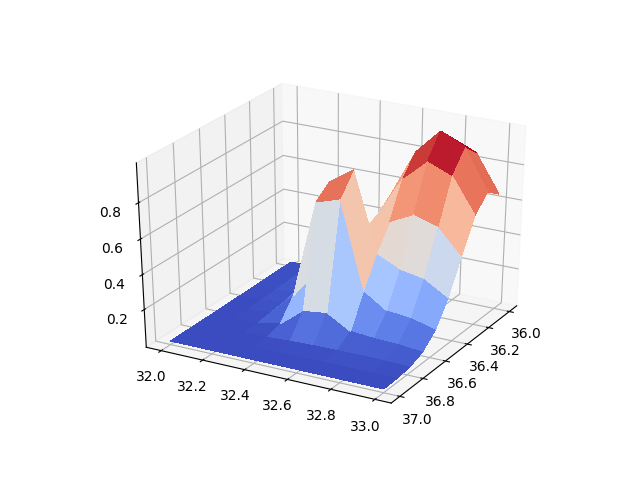
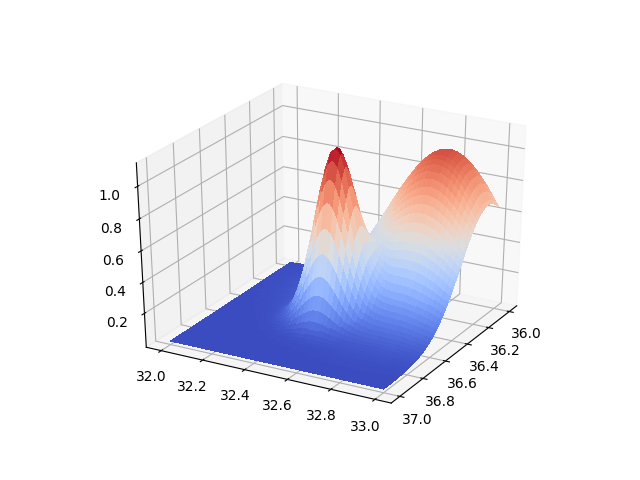
-

diff --git a/stat/stat_rbf/dairesel_baz_fonksiyonlari__radial_basis_functions_rbf__yukseklik_verisi_daglar.html b/stat/stat_rbf/dairesel_baz_fonksiyonlari__radial_basis_functions_rbf__yukseklik_verisi_daglar.html
@@ -314,8 +314,7 @@ def func(x, y):
     g2 = np.exp( -2 *np.log(2) * ((x-x2)**2+(y-y2)**2) / s2**2)    
     return g1 + g2 
 
-D = 10
-gamma = 2.0
+D = 100
 
 x = np.linspace(36,37,D)
 y = np.linspace(32,33,D)
@@ -326,45 +325,52 @@ zz = func(xx,yy)
 
 <p>Ve grafiklemeyi yapıyoruz,</p>
 <pre><code class="python">from scipy.interpolate import Rbf
-rbfi = Rbf(xx,yy,zz,function='gaussian')
-znew = rbfi(xx,yy)
 
 xx = xx.reshape(D,D)
 yy = yy.reshape(D,D)
-znew = znew.reshape(D,D)
+zz = func(xx,yy)
 
 fig = plt.figure()
 ax = fig.gca(projection='3d')
 ax.view_init(elev=29, azim=29)
-surf = ax.plot_surface(xx, yy, znew, cmap=cm.coolwarm,linewidth=0, antialiased=False)
+surf = ax.plot_surface(xx, yy, zz, cmap=cm.coolwarm,linewidth=0, antialiased=False)
 plt.savefig('linear_app88rbf_03.png')
 </code></pre>
 
-<p><img alt="" src="linear_app88rbf_03.png" /></p>
+<p>Şimdi örneklem alıp RBF yaratalım,</p>
+<pre><code class="python">S = 50
+np.random.seed(0)
+idx = np.random.choice(range(D*D),S)
+xr = xx.reshape(D*D)[idx].reshape(S,1)
+yr = yy.reshape(D*D)[idx].reshape(S,1)
+zr = zz.reshape(D*D)[idx].reshape(S,1)
+
+rbfi = Rbf(xr,yr,zr,function='gaussian',epsilon=0.15)
+</code></pre>
+
 <p>Modelleme Gaussian RBF'ler üzerinden yapıldı, bu formül neye benziyor?
 Dokümantasyona bakınca </p>
 <p><code>'gaussian': exp(-(r/self.epsilon)**2)</code></p>
 <p>ifadesini görüyoruz, burada <code>r</code> yeni nokta ile bir RBF baz fonksiyonu
 arasındaki mesafe. Bir test noktası ile üstteki RBF'leri (D*D tane)
 arasındaki mesafe şöyle hesaplanabilir,</p>
-<pre><code class="python">import autograd.numpy as anp
-def dist_matrix(X, Y):
-    sx = anp.sum(X**2, 1)
-    sy = anp.sum(Y**2, 1)
+<pre><code class="python">def dist_matrix(X, Y):
+    sx = np.sum(X**2, 1)
+    sy = np.sum(Y**2, 1)
     D2 =  sx[:, np.newaxis] - 2.0*X.dot(Y.T) + sy[np.newaxis, :] 
     D2[D2 &lt; 0] = 0
-    D = anp.sqrt(D2)
+    D = np.sqrt(D2)
     return D
 
-test_1 = anp.array([[36.0,32.0]])
+test_1 = np.array([[36.0,32.0]])
 test_1_dist = dist_matrix(test_1, rbfi.xi.T)
 print (test_1_dist.shape)
 print (test_1_dist[0][:10])
 </code></pre>
 
-<pre><code>(1, 100)
-[0.         0.11111111 0.22222222 0.33333333 0.44444444 0.55555556
- 0.66666667 0.77777778 0.88888889 1.        ]
+<pre><code>(1, 50)
+[0.4229176  1.08927112 0.72276945 0.76827462 0.96299239 1.21064725
+ 0.85578867 0.94970984 0.80965755 0.76794254]
 </code></pre>
 
 <p>O mesafeyi alıp eksi karesini hesaplayıp <code>exp</code>'ye vermek lazım. Tüm
@@ -377,29 +383,29 @@ print (rbfi.xi.shape)
 print (rbfi.nodes.shape)
 </code></pre>
 
-<pre><code>0.1
+<pre><code>0.15
 0.0
-(2, 100)
-(100,)
+(2, 50)
+(50,)
 </code></pre>
 
 <p>Ağırlıklar <code>nodes</code>, RBF merkezleri <code>xi</code>, <code>epsilon</code> genel bir
 pürüz parametresi. İki test noktası üzerinde görelim, dikkat burada {\em
   tüm} RBF'ler gözönüne alınacak,</p>
 <pre><code class="python">nodes = rbfi.nodes.reshape(1,len(rbfi.nodes))
-def gaussian(r,eps): return anp.exp(-(r/eps)**2)
+def gaussian(r,eps): return np.exp(-(r/eps)**2)
 
 def f_interp(newp, rbfi):
     nodes = rbfi.nodes.reshape(1,len(rbfi.nodes))
     newp_dist = dist_matrix(newp, rbfi.xi.T)
-    return anp.dot(gaussian(newp_dist, rbfi.epsilon), nodes.T)
+    return np.dot(gaussian(newp_dist, rbfi.epsilon), nodes.T)
 
-test_2 = anp.array([[36.0,32.0],[36.1,31.9]])
+test_2 = np.array([[36.0,32.0],[36.1,31.9]])
 print (f_interp(test_2,rbfi))
 </code></pre>
 
-<pre><code>[[0.00358205]
- [0.00067651]]
+<pre><code>[[-0.00387063]
+ [-0.00337065]]
 </code></pre>
 
 <p>Şimdi iki tepeli fonksiyonu RBF'ler üzerinde yaratalım,</p>

diff --git a/stat/stat_rbf/stat_rbf.html b/stat/stat_rbf/stat_rbf.html
@@ -314,8 +314,7 @@ def func(x, y):
     g2 = np.exp( -2 *np.log(2) * ((x-x2)**2+(y-y2)**2) / s2**2)    
     return g1 + g2 
 
-D = 10
-gamma = 2.0
+D = 100
 
 x = np.linspace(36,37,D)
 y = np.linspace(32,33,D)
@@ -326,45 +325,52 @@ zz = func(xx,yy)
 
 <p>Ve grafiklemeyi yapıyoruz,</p>
 <pre><code class="python">from scipy.interpolate import Rbf
-rbfi = Rbf(xx,yy,zz,function='gaussian')
-znew = rbfi(xx,yy)
 
 xx = xx.reshape(D,D)
 yy = yy.reshape(D,D)
-znew = znew.reshape(D,D)
+zz = func(xx,yy)
 
 fig = plt.figure()
 ax = fig.gca(projection='3d')
 ax.view_init(elev=29, azim=29)
-surf = ax.plot_surface(xx, yy, znew, cmap=cm.coolwarm,linewidth=0, antialiased=False)
+surf = ax.plot_surface(xx, yy, zz, cmap=cm.coolwarm,linewidth=0, antialiased=False)
 plt.savefig('linear_app88rbf_03.png')
 </code></pre>
 
-<p><img alt="" src="linear_app88rbf_03.png" /></p>
+<p>Şimdi örneklem alıp RBF yaratalım,</p>
+<pre><code class="python">S = 50
+np.random.seed(0)
+idx = np.random.choice(range(D*D),S)
+xr = xx.reshape(D*D)[idx].reshape(S,1)
+yr = yy.reshape(D*D)[idx].reshape(S,1)
+zr = zz.reshape(D*D)[idx].reshape(S,1)
+
+rbfi = Rbf(xr,yr,zr,function='gaussian',epsilon=0.15)
+</code></pre>
+
 <p>Modelleme Gaussian RBF'ler üzerinden yapıldı, bu formül neye benziyor?
 Dokümantasyona bakınca </p>
 <p><code>'gaussian': exp(-(r/self.epsilon)**2)</code></p>
 <p>ifadesini görüyoruz, burada <code>r</code> yeni nokta ile bir RBF baz fonksiyonu
 arasındaki mesafe. Bir test noktası ile üstteki RBF'leri (D*D tane)
 arasındaki mesafe şöyle hesaplanabilir,</p>
-<pre><code class="python">import autograd.numpy as anp
-def dist_matrix(X, Y):
-    sx = anp.sum(X**2, 1)
-    sy = anp.sum(Y**2, 1)
+<pre><code class="python">def dist_matrix(X, Y):
+    sx = np.sum(X**2, 1)
+    sy = np.sum(Y**2, 1)
     D2 =  sx[:, np.newaxis] - 2.0*X.dot(Y.T) + sy[np.newaxis, :] 
     D2[D2 &lt; 0] = 0
-    D = anp.sqrt(D2)
+    D = np.sqrt(D2)
     return D
 
-test_1 = anp.array([[36.0,32.0]])
+test_1 = np.array([[36.0,32.0]])
 test_1_dist = dist_matrix(test_1, rbfi.xi.T)
 print (test_1_dist.shape)
 print (test_1_dist[0][:10])
 </code></pre>
 
-<pre><code>(1, 100)
-[0.         0.11111111 0.22222222 0.33333333 0.44444444 0.55555556
- 0.66666667 0.77777778 0.88888889 1.        ]
+<pre><code>(1, 50)
+[0.4229176  1.08927112 0.72276945 0.76827462 0.96299239 1.21064725
+ 0.85578867 0.94970984 0.80965755 0.76794254]
 </code></pre>
 
 <p>O mesafeyi alıp eksi karesini hesaplayıp <code>exp</code>'ye vermek lazım. Tüm
@@ -377,29 +383,29 @@ print (rbfi.xi.shape)
 print (rbfi.nodes.shape)
 </code></pre>
 
-<pre><code>0.1
+<pre><code>0.15
 0.0
-(2, 100)
-(100,)
+(2, 50)
+(50,)
 </code></pre>
 
 <p>Ağırlıklar <code>nodes</code>, RBF merkezleri <code>xi</code>, <code>epsilon</code> genel bir
 pürüz parametresi. İki test noktası üzerinde görelim, dikkat burada {\em
   tüm} RBF'ler gözönüne alınacak,</p>
 <pre><code class="python">nodes = rbfi.nodes.reshape(1,len(rbfi.nodes))
-def gaussian(r,eps): return anp.exp(-(r/eps)**2)
+def gaussian(r,eps): return np.exp(-(r/eps)**2)
 
 def f_interp(newp, rbfi):
     nodes = rbfi.nodes.reshape(1,len(rbfi.nodes))
     newp_dist = dist_matrix(newp, rbfi.xi.T)
-    return anp.dot(gaussian(newp_dist, rbfi.epsilon), nodes.T)
+    return np.dot(gaussian(newp_dist, rbfi.epsilon), nodes.T)
 
-test_2 = anp.array([[36.0,32.0],[36.1,31.9]])
+test_2 = np.array([[36.0,32.0],[36.1,31.9]])
 print (f_interp(test_2,rbfi))
 </code></pre>
 
-<pre><code>[[0.00358205]
- [0.00067651]]
+<pre><code>[[-0.00387063]
+ [-0.00337065]]
 </code></pre>
 
 <p>Şimdi iki tepeli fonksiyonu RBF'ler üzerinde yaratalım,</p>
